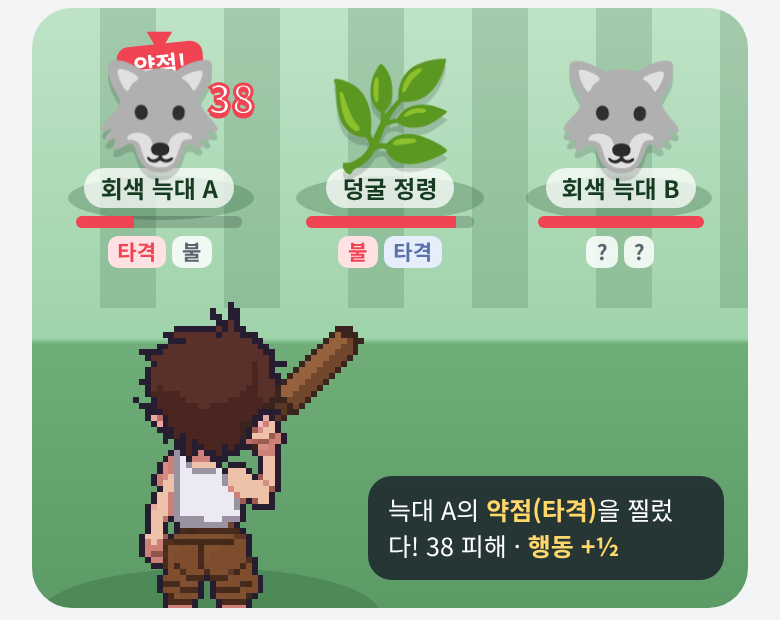
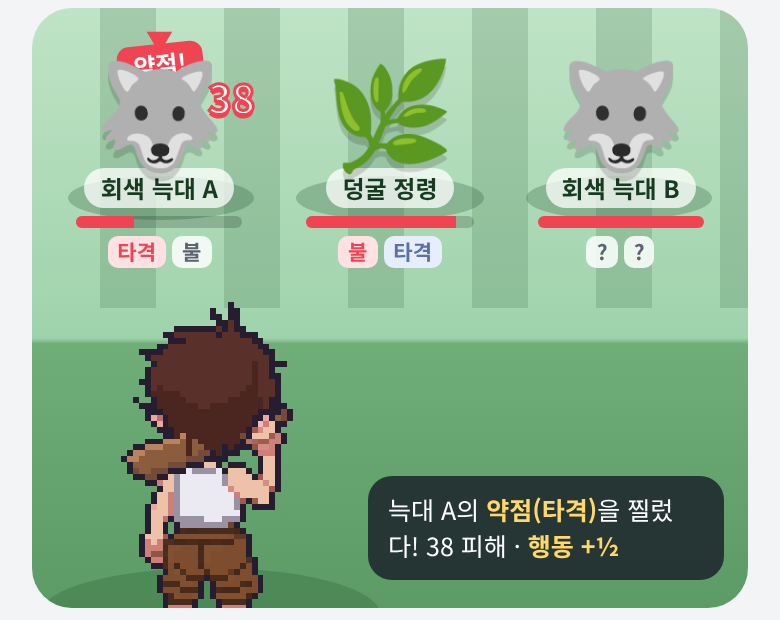
Draw back-view club across the shoulders; add monster design sheet
Claude-Session: https://claude.ai/code/session_015cmTPUQ4zgwBRLa7nDL7dC

diff --git a/mockup/battle-preview.html b/mockup/battle-preview.html
@@ -89,10 +89,10 @@ body{background:var(--bg);color:var(--ink);font-family:'Noto Sans KR',system-ui,
 <div class="turnbar">
   <div class="hd"><span>턴 순서 · <b>3라운드</b></span><span class="press" aria-label="남은 행동 2.5"><span style="margin-right:4px">내 행동</span><i></i><i></i><i class="half"></i><i class="used"></i></span></div>
   <div class="order">
[2 lines of base64/hex data omitted]
     <div class="tk foe"><div class="face">🐺</div><span>늑대 A</span></div>
     <div class="tk foe"><div class="face">🌿</div><span>덩굴 정령</span></div>
[2 lines of base64/hex data omitted]
     <div class="tk foe"><div class="face">🐺</div><span>늑대 B</span></div>
   </div>
 </div>
@@ -103,7 +103,7 @@ body{background:var(--bg);color:var(--ink);font-family:'Noto Sans KR',system-ui,
     <div class="foe"><div class="spr">🌿</div><div class="nm">덩굴 정령</div><div class="hpb"><i style="width:90%"></i></div><div class="weak"><span class="w">불</span><span class="r">타격</span></div></div>
     <div class="foe"><div class="spr">🐺</div><div class="nm">회색 늑대 B</div><div class="hpb"><i style="width:100%"></i></div><div class="weak"><span>?</span><span>?</span></div></div>
   </div>
[2 lines of base64/hex data omitted]
   <div class="log">늑대 A의 <b>약점(타격)</b>을 찔렀다! 38 피해 · <b>행동 +½</b></div>
 </div>
 <div class="panel">

diff --git a/mockup/monsters.html b/mockup/monsters.html
@@ -1,0 +1,97 @@
+<!doctype html><html lang="ko"><head><meta charset="utf-8"><meta name="viewport" content="width=device-width,initial-scale=1"><title>몬스터 도감</title>
+<style>
+:root{--bg:#f2f4f6;--s:#fff;--s2:#f4f5f7;--ink:#191f28;--sub:#4e5968;--mu:#8b95a1;--red:#f04452;--blue:#3182f6;--gold:#e5a50a}
+@media (prefers-color-scheme: dark){:root:not([data-theme="light"]){--bg:#101318;--s:#1b1f26;--s2:#242a33;--ink:#eef1f4;--sub:#b0b8c1;--mu:#7d8692}}
+*{box-sizing:border-box}body{margin:0;background:var(--bg);color:var(--ink);font-family:'Noto Sans KR',system-ui,sans-serif;font-size:14px;line-height:1.5}
+.app{max-width:480px;margin:0 auto;padding:16px}h1{font-size:20px;margin:4px 2px 12px}
+section{background:var(--s);border-radius:20px;padding:16px;margin-bottom:12px}h2{font-size:16px;margin:0 0 10px}h2 small{font-size:12px;color:var(--mu);font-weight:500}
+.grid{display:grid;gap:8px}.m{background:var(--s2);border-radius:14px;padding:11px 12px}.m.boss{background:#fff7e6;outline:1.5px solid #f5d38a}
+.hd{display:flex;align-items:center;gap:6px;font-size:15px}.bb{font-size:11px;font-weight:700;color:#fff;background:var(--gold);border-radius:6px;padding:0 6px}
+.look{margin:3px 0 6px;color:var(--sub);font-size:13px}.row{display:flex;align-items:center;gap:4px;margin:2px 0;flex-wrap:wrap}.k{font-size:12px;color:var(--mu);width:30px}
+.tg{font-size:11.5px;font-weight:700;padding:0 6px;border-radius:5px;background:var(--s);color:var(--mu)}.tg.w{background:#ffe1e4;color:var(--red)}.tg.r{background:#e6eefc;color:#5871a8}
+.act{margin:6px 0 0;font-size:12.5px}.drop{margin:2px 0 0;font-size:12px;color:var(--mu)}
+</style></head><body><div class="app"><h1>몬스터 도감 · 설정안</h1><section><h2>초보자의 들판 <small>Lv.1–5</small></h2><div class="grid"><div class="m"><div class="hd"><b>슬라임</b></div>
+<p class="look">말랑한 연두색 젤리. 눈 두 개, 통통 튀며 다가온다</p>
+<div class="row"><span class="k">약점</span><span class="tg w">불</span></div>
+<div class="row"><span class="k">내성</span><span class="tg r">타격</span></div>
+<p class="act">몸통 박치기 · 분열(HP 50% 이하에서 작은 슬라임 1마리)</p><p class="drop">드롭 · 끈적한 젤리</p></div><div class="m"><div class="hd"><b>들쥐</b></div>
+<p class="look">앞니가 큰 회갈색 쥐. 꼬리가 길고 빠르다</p>
+<div class="row"><span class="k">약점</span><span class="tg w">타격</span><span class="tg w">얼음</span></div>
+<div class="row"><span class="k">내성</span><span class="tg">없음</span></div>
+<p class="act">갉아먹기 · 선공(속도 높음)</p><p class="drop">드롭 · 쥐 꼬리</p></div><div class="m boss"><div class="hd"><b>왕슬라임 폴리</b><span class="bb">보스</span></div>
+<p class="look">작은 왕관을 쓴 거대 슬라임. 몸속에 삼킨 동전이 비친다</p>
+<div class="row"><span class="k">약점</span><span class="tg w">불</span></div>
+<div class="row"><span class="k">내성</span><span class="tg r">타격</span><span class="tg r">베기</span></div>
+<p class="act">짓누르기 · 슬라임 소환 · 젤리 비(전체)</p><p class="drop">드롭 · 왕관 조각, 고급 장비</p></div></div></section><section><h2>늑대 숲 <small>Lv.5–10</small></h2><div class="grid"><div class="m"><div class="hd"><b>회색 늑대</b></div>
+<p class="look">마른 회색 늑대. 등에 흉터, 무리 지어 다닌다</p>
+<div class="row"><span class="k">약점</span><span class="tg w">타격</span><span class="tg w">불</span></div>
+<div class="row"><span class="k">내성</span><span class="tg">없음</span></div>
+<p class="act">물어뜯기 · 하울링(늑대 공격력↑)</p><p class="drop">드롭 · 늑대 가죽</p></div><div class="m"><div class="hd"><b>덩굴 정령</b></div>
+<p class="look">덩굴이 엉켜 사람 모양이 된 정령. 머리에 작은 꽃</p>
+<div class="row"><span class="k">약점</span><span class="tg w">불</span></div>
+<div class="row"><span class="k">내성</span><span class="tg r">타격</span><span class="tg r">물</span></div>
+<p class="act">덩굴 휘감기(속박) · 광합성(회복)</p><p class="drop">드롭 · 질긴 덩굴</p></div><div class="m boss"><div class="hd"><b>외눈 늑대왕</b><span class="bb">보스</span></div>
+<p class="look">한쪽 눈에 흉터가 있는 은빛 거대 늑대</p>
+<div class="row"><span class="k">약점</span><span class="tg w">관통</span></div>
+<div class="row"><span class="k">내성</span><span class="tg r">얼음</span></div>
+<p class="act">연속 물기 · 무리 부르기 · 달빛 포효(행동 −1)</p><p class="drop">드롭 · 은빛 송곳니</p></div></div></section><section><h2>버려진 광산 <small>Lv.10–15</small></h2><div class="grid"><div class="m"><div class="hd"><b>코볼트</b></div>
+<p class="look">곡괭이를 든 작은 도마뱀 인간. 헬멧에 촛불</p>
+<div class="row"><span class="k">약점</span><span class="tg w">얼음</span><span class="tg w">타격</span></div>
+<div class="row"><span class="k">내성</span><span class="tg r">불</span></div>
+<p class="act">곡괭이질 · 폭약 던지기(전체)</p><p class="drop">드롭 · 철광석</p></div><div class="m"><div class="hd"><b>박쥐 떼</b></div>
+<p class="look">서너 마리가 뭉쳐 다니는 보라색 박쥐 무리</p>
+<div class="row"><span class="k">약점</span><span class="tg w">번개</span><span class="tg w">빛</span></div>
+<div class="row"><span class="k">내성</span><span class="tg r">타격</span></div>
+<p class="act">흡혈 · 초음파(혼란)</p><p class="drop">드롭 · 박쥐 날개</p></div><div class="m boss"><div class="hd"><b>광산의 골렘</b><span class="bb">보스</span></div>
+<p class="look">광석이 박힌 바위 거인. 가슴의 수정이 빛난다</p>
+<div class="row"><span class="k">약점</span><span class="tg w">타격</span><span class="tg w">번개</span></div>
+<div class="row"><span class="k">내성</span><span class="tg r">베기</span><span class="tg r">관통</span><span class="tg r">불</span></div>
+<p class="act">내려찍기 · 수정 충전 → 다음 턴 광선</p><p class="drop">드롭 · 골렘의 심장</p></div></div></section><section><h2>고블린 요새 <small>Lv.15–20</small></h2><div class="grid"><div class="m"><div class="hd"><b>고블린 전사</b></div>
+<p class="look">녹슨 칼과 나무 방패를 든 초록 고블린</p>
+<div class="row"><span class="k">약점</span><span class="tg w">관통</span></div>
+<div class="row"><span class="k">내성</span><span class="tg">없음</span></div>
+<p class="act">베기 · 방패 들기(방어↑)</p><p class="drop">드롭 · 고블린 부적</p></div><div class="m"><div class="hd"><b>고블린 주술사</b></div>
+<p class="look">해골 지팡이와 깃털 장식의 고블린</p>
+<div class="row"><span class="k">약점</span><span class="tg w">타격</span></div>
+<div class="row"><span class="k">내성</span><span class="tg r">어둠</span></div>
+<p class="act">저주 화살 · 동료 회복</p><p class="drop">드롭 · 주술 깃털</p></div><div class="m boss"><div class="hd"><b>고블린 대장 그락</b><span class="bb">보스</span></div>
+<p class="look">두 손 도끼를 든 덩치 큰 고블린. 투구에 뿔</p>
+<div class="row"><span class="k">약점</span><span class="tg w">얼음</span></div>
+<div class="row"><span class="k">내성</span><span class="tg r">베기</span></div>
+<p class="act">회전 도끼(전체) · 돌격 명령(고블린 행동 +1)</p><p class="drop">드롭 · 대장의 도끼</p></div></div></section><section><h2>트롤 늪지 <small>Lv.20–25</small></h2><div class="grid"><div class="m"><div class="hd"><b>늪 트롤</b></div>
+<p class="look">이끼 덮인 거대한 회녹색 트롤</p>
+<div class="row"><span class="k">약점</span><span class="tg w">불</span></div>
+<div class="row"><span class="k">내성</span><span class="tg r">타격</span></div>
+<p class="act">몽둥이질 · 재생(매 턴 회복)</p><p class="drop">드롭 · 트롤의 피</p></div><div class="m"><div class="hd"><b>독두꺼비</b></div>
+<p class="look">등에 독 혹이 난 보라 두꺼비</p>
+<div class="row"><span class="k">약점</span><span class="tg w">얼음</span></div>
+<div class="row"><span class="k">내성</span><span class="tg r">독</span></div>
+<p class="act">독 침 뱉기 · 혀 낚아채기</p><p class="drop">드롭 · 독샘</p></div><div class="m boss"><div class="hd"><b>늪의 마녀 모르가</b><span class="bb">보스</span></div>
+<p class="look">물에 뜬 연꽃 위의 늙은 마녀. 늪 안개를 두른다</p>
+<div class="row"><span class="k">약점</span><span class="tg w">빛</span></div>
+<div class="row"><span class="k">내성</span><span class="tg r">어둠</span><span class="tg r">물</span></div>
+<p class="act">늪 안개(명중↓) · 두꺼비 변신 저주</p><p class="drop">드롭 · 마녀의 등불</p></div></div></section><section><h2>와이번 협곡 <small>Lv.25–30</small></h2><div class="grid"><div class="m"><div class="hd"><b>와이번</b></div>
+<p class="look">붉은 비늘의 날개 달린 작은 용. 꼬리에 독침</p>
+<div class="row"><span class="k">약점</span><span class="tg w">관통</span><span class="tg w">얼음</span></div>
+<div class="row"><span class="k">내성</span><span class="tg r">불</span></div>
+<p class="act">급강하 · 꼬리 독침</p><p class="drop">드롭 · 와이번 비늘</p></div><div class="m"><div class="hd"><b>바위 거인</b></div>
+<p class="look">협곡 바위가 일어선 거인. 어깨에 새 둥지</p>
+<div class="row"><span class="k">약점</span><span class="tg w">타격</span></div>
+<div class="row"><span class="k">내성</span><span class="tg r">베기</span><span class="tg r">관통</span></div>
+<p class="act">바위 던지기 · 굳기(방어↑↑)</p><p class="drop">드롭 · 단단한 바위</p></div><div class="m boss"><div class="hd"><b>폭풍 와이번 제트</b><span class="bb">보스</span></div>
+<p class="look">번개를 두른 푸른 와이번 우두머리</p>
+<div class="row"><span class="k">약점</span><span class="tg w">얼음</span></div>
+<div class="row"><span class="k">내성</span><span class="tg r">번개</span><span class="tg r">관통</span></div>
+<p class="act">번개 숨결(전체) · 공중으로(1턴 회피)</p><p class="drop">드롭 · 폭풍의 날개막</p></div></div></section><section><h2>고룡의 둥지 <small>Lv.30+</small></h2><div class="grid"><div class="m"><div class="hd"><b>고룡의 새끼</b></div>
+<p class="look">알 껍질을 쓴 작은 검붉은 용</p>
+<div class="row"><span class="k">약점</span><span class="tg w">얼음</span></div>
+<div class="row"><span class="k">내성</span><span class="tg r">불</span></div>
+<p class="act">불씨 뱉기 · 엄마 부르기</p><p class="drop">드롭 · 용의 비늘</p></div><div class="m"><div class="hd"><b>용인 수호자</b></div>
+<p class="look">창을 든 반룡반인 기사. 비늘 갑옷</p>
+<div class="row"><span class="k">약점</span><span class="tg w">번개</span></div>
+<div class="row"><span class="k">내성</span><span class="tg r">베기</span><span class="tg r">불</span></div>
+<p class="act">찌르기 · 수호(보스 대신 맞기)</p><p class="drop">드롭 · 용인의 창날</p></div><div class="m boss"><div class="hd"><b>고룡 레드혼</b><span class="bb">보스</span></div>
+<p class="look">한쪽 뿔이 부러진 거대한 붉은 용. 둥지 위 보물더미</p>
+<div class="row"><span class="k">약점</span><span class="tg w">얼음</span><span class="tg w">빛</span></div>
+<div class="row"><span class="k">내성</span><span class="tg r">불</span><span class="tg r">베기</span></div>
+<p class="act">화염 숨결(전체) · 날개 바람(행동 −1) · 분노(HP 30% 이하 2회 행동)</p><p class="drop">드롭 · 고룡의 뿔, 전설 장비</p></div></div></section></div></body></html>

diff --git a/mockup/battle-preview.src.html b/mockup/battle-preview.src.html
@@ -103,7 +103,7 @@ body{background:var(--bg);color:var(--ink);font-family:'Noto Sans KR',system-ui,
     <div class="foe"><div class="spr">🌿</div><div class="nm">덩굴 정령</div><div class="hpb"><i style="width:90%"></i></div><div class="weak"><span class="w">불</span><span class="r">타격</span></div></div>
     <div class="foe"><div class="spr">🐺</div><div class="nm">회색 늑대 B</div><div class="hpb"><i style="width:100%"></i></div><div class="weak"><span>?</span><span>?</span></div></div>
   </div>
-  <div class="plat me"></div><div class="me-on"><img class="px" src="{{BODY}}" alt=""><img class="px" src="{{HAIR}}" alt=""><img class="px" src="{{WPN}}" alt=""><img class="px" src="{{FIST}}" alt=""></div>
+  <div class="plat me"></div><div class="me-on"><img class="px" src="{{BODY}}" alt=""><img class="px" src="{{WPN}}" alt=""><img class="px" src="{{HAIR}}" alt=""><img class="px" src="{{FIST}}" alt=""></div>
   <div class="log">늑대 A의 <b>약점(타격)</b>을 찔렀다! 38 피해 · <b>행동 +½</b></div>
 </div>
 <div class="panel">

diff --git a/tools/make_sprites.py b/tools/make_sprites.py
@@ -182,19 +182,53 @@ for k in range(4):
     sprites[f'bfist{k}'] = fist
 
 
-def held_back(w, ang=-45, ln=26, gfe=4, hx=42, hy=22):
-    w = w.crop(w.getbbox()); w = w.resize((w.width, ln), Image.NEAREST)
-    r = w.resize((w.width * 4, w.height * 4), Image.NEAREST).rotate(ang, Image.NEAREST, expand=True)
-    r = r.resize((r.width // 4, r.height // 4), Image.NEAREST)
-    pts = [(x, y) for y in range(r.height) for x in range(r.width) if r.getpixel((x, y))[3] > 128]
-    t = math.radians(ang); d = (math.sin(t), math.cos(t))
-    ex, ey = max(pts, key=lambda q: q[0] * d[0] + q[1] * d[1])
-    L = Image.new('RGBA', (64, 64)); L.paste(r, (round(hx - (ex - gfe * d[0])), round(hy - (ey - gfe * d[1]))), r)
-    return L
+# weapon resting across the shoulders, drawn as pixels along the angle (rotating the sprite smeared it)
+WOOD=[(184,131,94),(139,93,61),(116,74,57),(82,50,50)]
+OAK=[(150,98,62),(112,70,44),(90,56,36),(60,36,30)]
+STEEL=[(206,212,224),(156,164,180),(118,124,140),(58,60,74)]
+MITH=[(200,236,248),(132,194,228),(96,150,198),(46,66,108)]
+BONE=[(246,238,216),(216,202,172),(176,158,126),(96,62,60)]
+TIERS=[(WOOD,WOOD,None),(OAK,OAK,None),(WOOD,WOOD,'nails'),(WOOD,WOOD,'bands'),(STEEL,OAK,None),(MITH,OAK,None),(BONE,BONE,'red')]
+def draw_club(tier, grip=(42,21), head=(19,29), butt=3):
+    head_ramp, handle_ramp, deco = TIERS[tier]
+    gx,gy=grip; hx,hy=head
+    L=math.hypot(hx-gx,hy-gy); ux,uy=(hx-gx)/L,(hy-gy)/L
+    nx,ny=uy,-ux  # normal
+    if ny>0: nx,ny=-nx,-ny  # normal points up (towards light)
+    im=Image.new('RGBA',(64,64)); inside={}
+    for y in range(64):
+        for x in range(64):
+            px,py=x+.5-gx,y+.5-gy
+            t=px*ux+py*uy; d=px*nx+py*ny
+            if t<-butt or t>L: continue
+            f=min(1,max(0,(t/L-.3)/.3)); r=1.1+1.5*f*f*(3-2*f)
+            if t>L-1.2: r=min(r, 1.6)
+            if abs(d)<=r:
+                isHead = t/L>.45
+                ramp=head_ramp if isHead else handle_ramp
+                lv=0 if d>r-1.0 else (2 if d<-r+1.0 else 1)
+                if t<-butt+1.2: lv=2
+                inside[(x,y)]=(ramp[lv],isHead,t,d)
+    for (x,y),(c,isHead,t,d) in inside.items(): im.putpixel((x,y),c+(255,))
+    for y in range(64):
+        for x in range(64):
+            if (x,y) in inside: continue
+            if any((x+dx,y+dy) in inside for dx,dy in ((1,0),(-1,0),(0,1),(0,-1))): im.putpixel((x,y),OUTL)
+    if deco:
+        for (x,y),(c,isHead,t,d) in inside.items():
+            if not isHead: continue
+            if deco=='bands' and int(t)%7 in (0,1) and t/L>.55: im.putpixel((x,y),(150,156,172,255) if d>0 else (108,114,130,255))
+            if deco=='red' and int(t)%6==0 and abs(d)<.8: im.putpixel((x,y),(204,52,64,255))
+        if deco=='nails':
+            for k in range(4):
+                t=L*(.58+.12*k); s=1 if k%2 else -1; r=2.9
+                x=round(gx+ux*t+nx*s*r); y=round(gy+uy*t+ny*s*r)
+                im.putpixel((x,y),(196,202,214,255))
+    return im
 
 
-for i, w in enumerate(weapons):
-    sprites[f'bwpn{i}'] = held_back(w)
+for i in range(7):
+    sprites[f'bwpn{i}'] = draw_club(i)
 
 data = {}
 for k, im in sprites.items():
@@ -214,7 +248,7 @@ for i in range(4):
 row.resize((row.width * 3, 192), Image.NEAREST).save(A + 'preview_game_sprites.png')
 back = Image.new('RGBA', (68 * 7, 64), (244, 245, 246, 255))
 for i in range(7):
-    c = sprites[f'bbody{i % 4}'].copy(); c.alpha_composite(sprites[f'bhair{i}']); c.alpha_composite(sprites[f'bwpn{i}']); c.alpha_composite(sprites[f'bfist{i % 4}'])
+    c = sprites[f'bbody{i % 4}'].copy(); c.alpha_composite(sprites[f'bwpn{i}']); c.alpha_composite(sprites[f'bhair{i}']); c.alpha_composite(sprites[f'bfist{i % 4}'])
     back.alpha_composite(c, (i * 68, 0))
 back.resize((back.width * 3, 192), Image.NEAREST).save(A + 'preview_back_sprites.png')
 print(sum(len(v) for v in data.values()), 'bytes of data URIs')

diff --git a/tools/build_monster_sheet.py b/tools/build_monster_sheet.py
@@ -1,0 +1,27 @@
+"""Renders design/monsters.json to mockup/monsters.html (design sheet, no sprites yet)."""
+import json, html
+D = json.load(open('design/monsters.json', encoding='utf-8'))
+E = html.escape
+def tags(xs, cls):
+    return ''.join(f'<span class="tg {cls}">{E(x)}</span>' for x in xs) or '<span class="tg">없음</span>'
+def card(m, boss=False):
+    return f'''<div class="m{' boss' if boss else ''}"><div class="hd"><b>{E(m["name"])}</b>{'<span class="bb">보스</span>' if boss else ''}</div>
+<p class="look">{E(m["look"])}</p>
+<div class="row"><span class="k">약점</span>{tags(m["weak"],"w")}</div>
+<div class="row"><span class="k">내성</span>{tags(m["resist"],"r")}</div>
+<p class="act">{E(m["act"])}</p><p class="drop">드롭 · {E(m["drop"])}</p></div>'''
+body = ''.join(f'''<section><h2>{E(g["ground"])} <small>Lv.{E(g["lv"])}</small></h2><div class="grid">{''.join(card(m) for m in g["mons"])}{card(g["boss"], True)}</div></section>''' for g in D)
+page = f'''<!doctype html><html lang="ko"><head><meta charset="utf-8"><meta name="viewport" content="width=device-width,initial-scale=1"><title>몬스터 도감</title>
+<style>
+:root{{--bg:#f2f4f6;--s:#fff;--s2:#f4f5f7;--ink:#191f28;--sub:#4e5968;--mu:#8b95a1;--red:#f04452;--blue:#3182f6;--gold:#e5a50a}}
+@media (prefers-color-scheme: dark){{:root:not([data-theme="light"]){{--bg:#101318;--s:#1b1f26;--s2:#242a33;--ink:#eef1f4;--sub:#b0b8c1;--mu:#7d8692}}}}
+*{{box-sizing:border-box}}body{{margin:0;background:var(--bg);color:var(--ink);font-family:'Noto Sans KR',system-ui,sans-serif;font-size:14px;line-height:1.5}}
+.app{{max-width:480px;margin:0 auto;padding:16px}}h1{{font-size:20px;margin:4px 2px 12px}}
+section{{background:var(--s);border-radius:20px;padding:16px;margin-bottom:12px}}h2{{font-size:16px;margin:0 0 10px}}h2 small{{font-size:12px;color:var(--mu);font-weight:500}}
+.grid{{display:grid;gap:8px}}.m{{background:var(--s2);border-radius:14px;padding:11px 12px}}.m.boss{{background:#fff7e6;outline:1.5px solid #f5d38a}}
+.hd{{display:flex;align-items:center;gap:6px;font-size:15px}}.bb{{font-size:11px;font-weight:700;color:#fff;background:var(--gold);border-radius:6px;padding:0 6px}}
+.look{{margin:3px 0 6px;color:var(--sub);font-size:13px}}.row{{display:flex;align-items:center;gap:4px;margin:2px 0;flex-wrap:wrap}}.k{{font-size:12px;color:var(--mu);width:30px}}
+.tg{{font-size:11.5px;font-weight:700;padding:0 6px;border-radius:5px;background:var(--s);color:var(--mu)}}.tg.w{{background:#ffe1e4;color:var(--red)}}.tg.r{{background:#e6eefc;color:#5871a8}}
+.act{{margin:6px 0 0;font-size:12.5px}}.drop{{margin:2px 0 0;font-size:12px;color:var(--mu)}}
+</style></head><body><div class="app"><h1>몬스터 도감 · 설정안</h1>{body}</div></body></html>'''
+open('mockup/monsters.html', 'w', encoding='utf-8').write(page)
